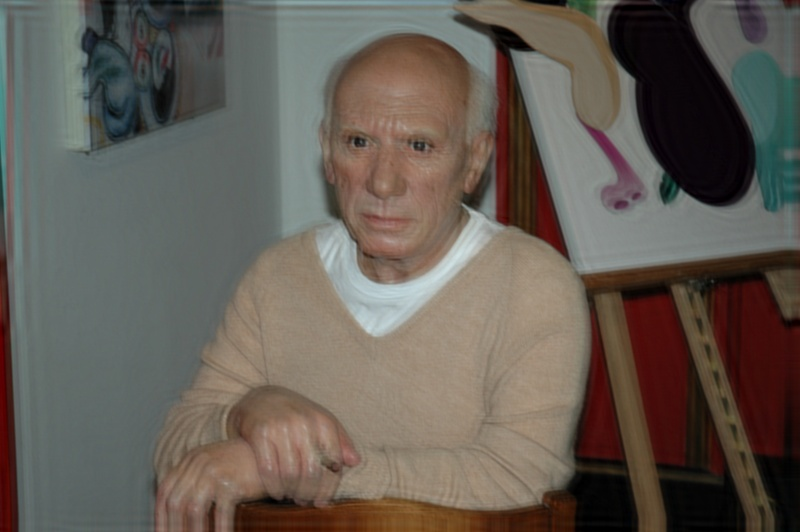
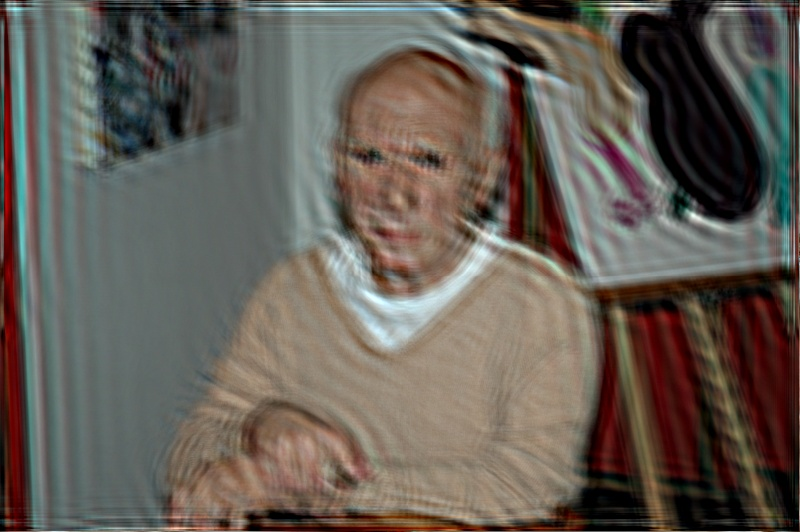
1

diff --git a/Latent.py b/Latent.py
@@ -28,7 +28,8 @@ class Latent:
 
         self.img_y, self.img_x, _ = observed_image.shape
         self.ker_y, self.ker_x = kernel_size
-        self.pad_y, self.pad_x = self.img_y + self.ker_y - 1, self.img_x + self.ker_x - 1
+        # self.pad_y, self.pad_x = self.img_y + self.ker_y - 1, self.img_x + self.ker_x - 1
+        self.pad_y, self.pad_x = self.img_y, self.img_x
 
         d_pad_bottom1 = self.pad_y - self.der_length1
         d_pad_right1 = self.pad_x - self.der_length1
@@ -59,6 +60,7 @@ class Latent:
 
         observed_b, observed_g, observed_r = cv.split(self.img)
 
+        print(kernel)
         l_updated_b = self.update_l_channel(observed_b, kernel, (psi[0][:, :, 2], psi[1][:, :, 2])) / 255.0
         l_updated_g = self.update_l_channel(observed_g, kernel, (psi[0][:, :, 1], psi[1][:, :, 1])) / 255.0
         l_updated_r = self.update_l_channel(observed_r, kernel, (psi[0][:, :, 0], psi[1][:, :, 0])) / 255.0
@@ -68,6 +70,27 @@ class Latent:
         plt.subplot(111); plt.title("Latent updated")
         plt.imshow(np.dstack([l_updated_r, l_updated_g, l_updated_b])); plt.show()
 
+        # l_updated[self.img_y // 2 - 12, self.img_x // 2 - 10] = [255, 255, 255]
+        # print(self.img_y // 2 - 12, self.img_x // 2 - 10)
+        # cv.imwrite('img/latent/l.jpg', l_updated * 255)
+        # cv.imshow('l_updated', l_updated)
+        # cv.waitKey(0)
+        # cv.destroyAllWindows()
+
+        la = l_updated.copy()
+        p1 = la[0:255, 0:391]
+        p2 = la[0:255, 391:799]
+        p3 = la[255:531, 0:391]
+        p4 = la[255:531, 391:799]
+        l_updated[0:276, 0:408] = p4
+        l_updated[0:276, 408:799] = p3
+        l_updated[276:531, 0:408] = p2
+        l_updated[276:531, 408:799] = p1
+        # l_updated[276, 408] = [255, 255, 255]
+        # cv.imshow('l_updated', l_updated)
+        # cv.waitKey(0)
+        # cv.destroyAllWindows()
+
         l_diff = l_updated - self.latent
         diff_b = np.linalg.norm(l_diff[:, :, 0], ord=1)
         diff_g = np.linalg.norm(l_diff[:, :, 1], ord=1)
@@ -75,12 +98,6 @@ class Latent:
         diff = max(diff_r, diff_g, diff_b)
 
         self.latent = l_updated
-        # l_updated[]
-        cv.imwrite('img/latent/l.jpg', l_updated)
-        cv.imshow('l_updated', l_updated)
-        cv.waitKey(0)
-        cv.destroyAllWindows()
-
 
         return diff
 
@@ -94,20 +111,24 @@ class Latent:
         """
         if kernel.shape != (self.ker_x, self.ker_y):
             self.ker_x, self.ker_y = kernel.shape
-            self.pad_x, self.pad_y = self.img_x + self.ker_x - 1, self.img_y + self.ker_y - 1
+            # self.pad_x, self.pad_y = self.img_x + self.ker_x - 1, self.img_y + self.ker_y - 1
+            self.pad_x, self.pad_y = self.img_x, self.img_y
 
         img = observed_image_channel
 
         # fft of padded psi
         psi_x, psi_y = psi
-        f_psi_x_pad = fft(pad(psi_x, self.ker_y - 1, self.ker_x - 1))
-        f_psi_y_pad = fft(pad(psi_y, self.ker_y - 1, self.ker_x - 1))
+        # f_psi_x_pad = fft(pad(psi_x, self.ker_y - 1, self.ker_x - 1))
+        f_psi_x_pad = fft(psi_x)
+        # f_psi_y_pad = fft(pad(psi_y, self.ker_y - 1, self.ker_x - 1))
+        f_psi_y_pad = fft(psi_y)
 
         # fft of padded kernel
-        f_kernel_pad = fft(pad(kernel, self.img_y - 1, self.img_x - 1))
+        f_kernel_pad = fft(pad(kernel, self.pad_y - self.ker_y, self.pad_x - self.ker_x))
 
         # fft of padded img
-        f_img_pad = fft(pad(img, self.ker_y - 1, self.ker_x - 1))
+        # f_img_pad = fft(pad(img, self.ker_y - 1, self.ker_x - 1))
+        f_img_pad = fft(img)
 
         # plt.subplot(121); plt.imshow(img, cmap='gray');
         l_channel_updated = ifftshift(ifft2(

diff --git a/frame.py b/frame.py
@@ -11,7 +11,7 @@ from find_smooth_region import *
 
 
 get_smooth = False
-operating_f = False
+operating_f = True
 smooth_npy = "./img/smooth.npy"
 
 if __name__ == '__main__':
@@ -52,9 +52,10 @@ if __name__ == '__main__':
 
     iter_1 = 0
     flag1 = True
-    # updated_f = np.eye(27, 27)
-    # updated_f /= np.sum(updated_f)
-    updated_f = kernel
+    updated_f = np.eye(27, 27)
+    updated_f /= np.sum(updated_f)
+    # print(updated_f)
+    # updated_f = kernel
     while flag1:
         iter_1 = iter_1 + 1
         iter_2 = 0
@@ -65,7 +66,7 @@ if __name__ == '__main__':
             psi_updated = update_psi(psi, mask_01, observed_image, latent.latent, Gamma, Lambda1, Lambda2)
             # print(psi_updated)
             # psi_updated = (psi_updated[0] * 1.05, psi_updated[1] * 1.05)  # for test
-            #psi_diff = get_psi_diff(psi_updated, psi_origin)
+            # psi_diff = get_psi_diff(psi_updated, psi_origin)
             psi_diff = 0
             latent_diff = latent.update_l(updated_f, psi_updated)
             print("latent_diff = {0:.5f}, psi_diff = {1:.10f}".format(latent_diff, psi_diff))

diff --git a/update_f.py b/update_f.py
@@ -45,19 +45,27 @@ def update_f(latent1, image1, f):
     q = 1-2 * np.dot(B.T, A)
     q = q.flatten()
 
-    G1 = np.identity(q.size)
-    h1 = np.ones(q.size)
+    # G1 = np.identity(q.size)
+    # h1 = np.ones(q.size)
     G2 = -1 * np.identity(q.size)
     h2 = np.zeros(q.size)
-    G = np.concatenate((G1, G2))
-    h = np.concatenate((h1, h2))
+    # G = np.concatenate((G1, G2))
+    # h = np.concatenate((h1, h2))
+    G = G2
+    h = h2
 
     updated_f = solve_qp(P, q, G, h, np.zeros((q.size, q.size)), np.zeros(q.size))
     updated_f = updated_f.reshape(f.shape)
-    print(updated_f)
+    max_f = updated_f.max()
+    rows, cols = updated_f.shape
+    for i in range(rows):
+        for j in range(cols):
+            if updated_f[i][j] < max_f * 0.3:
+                updated_f[i][j] = 0
     cv.imwrite('img/kernel/kernel.png', updated_f * 255)
     updated_f = updated_f / np.sum(updated_f)
-    cv.imwrite('img/kernel/kernel1.png', updated_f * 255)
+
+    cv.imwrite('img/kernel/kernel_norm.png', updated_f * 255)
 
     return updated_f
 

diff --git a/image.py b/image.py
@@ -27,7 +27,7 @@ def initial_kernel():
 
     # kernel = np.identity(size[0])
     # kernel = np.rot90(kernel, 2)
-    print(kernel.shape)
+    # print(kernel.shape)
     return kernel
 
 
